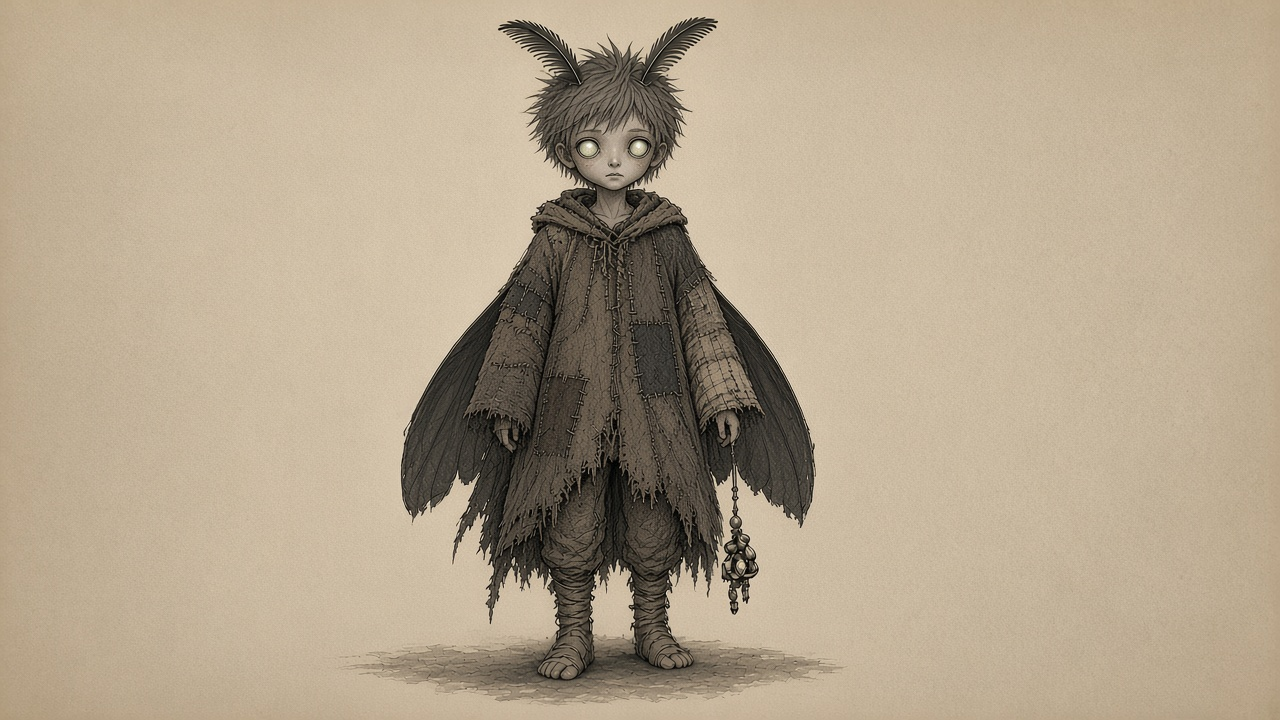
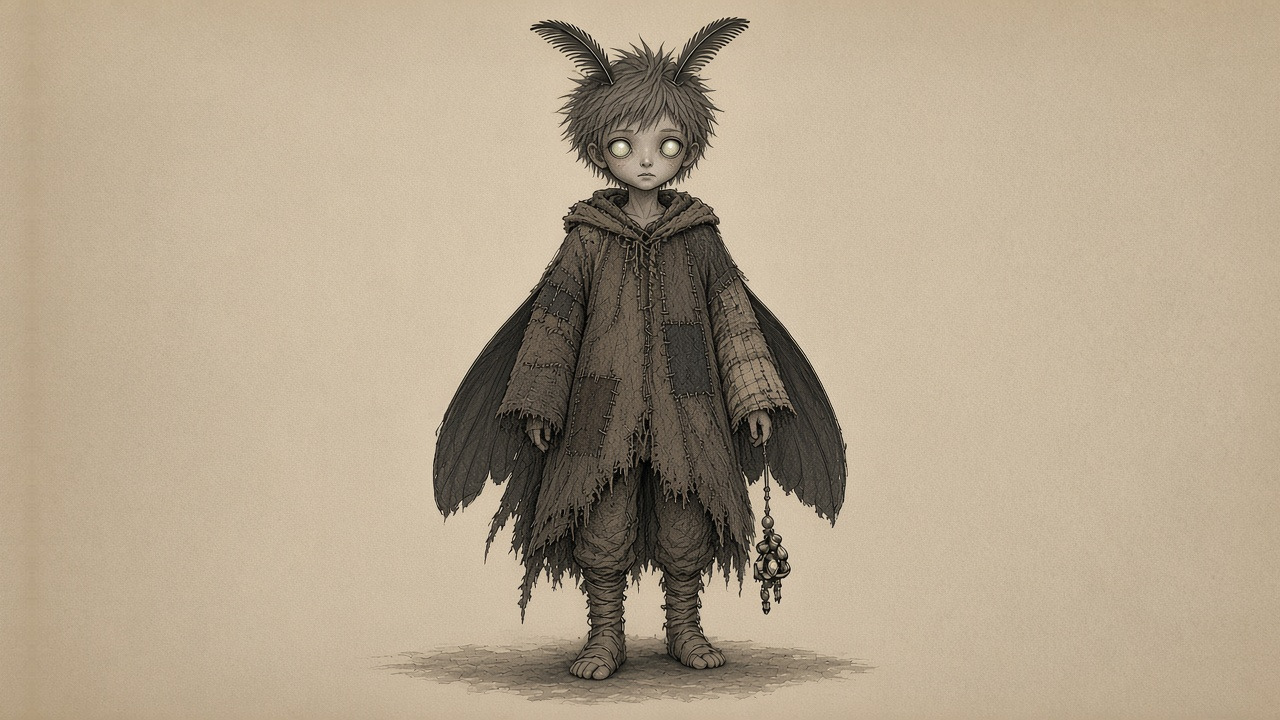
12 new Eldrid backgrounds (desktop + mobile) and centered Wyrdling art

Changed region(s): [[0.2812, 0.0, 0.6875, 0.9778]]

diff --git a/apps/web/src/styles/themes.css b/apps/web/src/styles/themes.css
@@ -1057,6 +1057,54 @@
     --background: url('/images/themes/autumn-village.jpg');
     --background-desktop: url('/images/themes/autumn-village.jpg');
 }
+[data-background="teal"] {
+    --background: url('/eldrid-bg-teal-3840.webp');
+    --background-desktop: url('/eldrid-bg-teal-3840.webp');
+}
+[data-background="rose"] {
+    --background: url('/eldrid-bg-rose-3840.webp');
+    --background-desktop: url('/eldrid-bg-rose-3840.webp');
+}
+[data-background="amber-dusk"] {
+    --background: url('/eldrid-bg-amber-dusk-3840.webp');
+    --background-desktop: url('/eldrid-bg-amber-dusk-3840.webp');
+}
+[data-background="moonlit"] {
+    --background: url('/eldrid-bg-moonlit-3840.webp');
+    --background-desktop: url('/eldrid-bg-moonlit-3840.webp');
+}
+[data-background="emerald-mist"] {
+    --background: url('/eldrid-bg-emerald-mist-3840.webp');
+    --background-desktop: url('/eldrid-bg-emerald-mist-3840.webp');
+}
+[data-background="twilight"] {
+    --background: url('/eldrid-bg-twilight-3840.webp');
+    --background-desktop: url('/eldrid-bg-twilight-3840.webp');
+}
+[data-background="ash"] {
+    --background: url('/eldrid-bg-ash-3840.webp');
+    --background-desktop: url('/eldrid-bg-ash-3840.webp');
+}
+[data-background="copper"] {
+    --background: url('/eldrid-bg-copper-3840.webp');
+    --background-desktop: url('/eldrid-bg-copper-3840.webp');
+}
+[data-background="ocean"] {
+    --background: url('/eldrid-bg-ocean-3840.webp');
+    --background-desktop: url('/eldrid-bg-ocean-3840.webp');
+}
+[data-background="aurora"] {
+    --background: url('/eldrid-bg-aurora-3840.webp');
+    --background-desktop: url('/eldrid-bg-aurora-3840.webp');
+}
+[data-background="crimson-night"] {
+    --background: url('/eldrid-bg-crimson-night-3840.webp');
+    --background-desktop: url('/eldrid-bg-crimson-night-3840.webp');
+}
+[data-background="ivory-dawn"] {
+    --background: url('/eldrid-bg-ivory-dawn-3840.webp');
+    --background-desktop: url('/eldrid-bg-ivory-dawn-3840.webp');
+}
 /* #endregion */
 
 /* #region Mobile Crop Section */
@@ -1092,5 +1140,17 @@
     html[data-background="throne-hall"] { --background: url('/images/themes/throne-hall-mobile-1440x2560.jpg'); }
     html[data-background="arcane-observatory"] { --background: url('/images/themes/arcane-observatory-mobile-1440x2560.jpg'); }
     html[data-background="autumn-village"] { --background: url('/images/themes/autumn-village-mobile-1440x2560.jpg'); }
+    html[data-background="teal"] { --background: url('/eldrid-bg-teal-mobile-1440x2560.webp'); }
+    html[data-background="rose"] { --background: url('/eldrid-bg-rose-mobile-1440x2560.webp'); }
+    html[data-background="amber-dusk"] { --background: url('/eldrid-bg-amber-dusk-mobile-1440x2560.webp'); }
+    html[data-background="moonlit"] { --background: url('/eldrid-bg-moonlit-mobile-1440x2560.webp'); }
+    html[data-background="emerald-mist"] { --background: url('/eldrid-bg-emerald-mist-mobile-1440x2560.webp'); }
+    html[data-background="twilight"] { --background: url('/eldrid-bg-twilight-mobile-1440x2560.webp'); }
+    html[data-background="ash"] { --background: url('/eldrid-bg-ash-mobile-1440x2560.webp'); }
+    html[data-background="copper"] { --background: url('/eldrid-bg-copper-mobile-1440x2560.webp'); }
+    html[data-background="ocean"] { --background: url('/eldrid-bg-ocean-mobile-1440x2560.webp'); }
+    html[data-background="aurora"] { --background: url('/eldrid-bg-aurora-mobile-1440x2560.webp'); }
+    html[data-background="crimson-night"] { --background: url('/eldrid-bg-crimson-night-mobile-1440x2560.webp'); }
+    html[data-background="ivory-dawn"] { --background: url('/eldrid-bg-ivory-dawn-mobile-1440x2560.webp'); }
 }
 /* #endregion */

diff --git a/apps/web/src/pages/ProfilePage.jsx b/apps/web/src/pages/ProfilePage.jsx
@@ -10,7 +10,7 @@ const THEMES = ['default', 'green', 'purple', 'blue', 'red', 'orange', 'yellow',
 // 'glass-blue' -> 'Glass Blue'
 const pretty = (s) => s.split('-').map((w) => w[0].toUpperCase() + w.slice(1)).join(' ');
 const DISPLAYS = ['standard', 'compact', 'neon', 'glass', 'parchment', 'minimal', 'bold', 'shadow-of-the-mountains', 'gestalt'];
-const BACKGROUNDS = ['default', 'green', 'purple', 'blue', 'red', 'orange', 'yellow', 'dark', 'light', 'hellfire', 'frozen', 'neon', 'gestalt', 'shadow-of-the-mountains', 'dark-map', 'light-map', 'hellfire-map', 'frozen-map', 'gothic', 'haunted-forest', 'frozen-fortress', 'volcanic-forge', 'sunken-ruins', 'elven-grove', 'desert-tomb', 'storm-lighthouse', 'throne-hall', 'arcane-observatory', 'autumn-village'];
+const BACKGROUNDS = ['default', 'green', 'purple', 'blue', 'red', 'orange', 'yellow', 'dark', 'light', 'hellfire', 'frozen', 'neon', 'gestalt', 'shadow-of-the-mountains', 'dark-map', 'light-map', 'hellfire-map', 'frozen-map', 'gothic', 'haunted-forest', 'frozen-fortress', 'volcanic-forge', 'sunken-ruins', 'elven-grove', 'desert-tomb', 'storm-lighthouse', 'throne-hall', 'arcane-observatory', 'autumn-village', 'teal', 'rose', 'amber-dusk', 'moonlit', 'emerald-mist', 'twilight', 'ash', 'copper', 'ocean', 'aurora', 'crimson-night', 'ivory-dawn'];
 
 function ProfilePage() {
     usePageStyle(profileCss);
